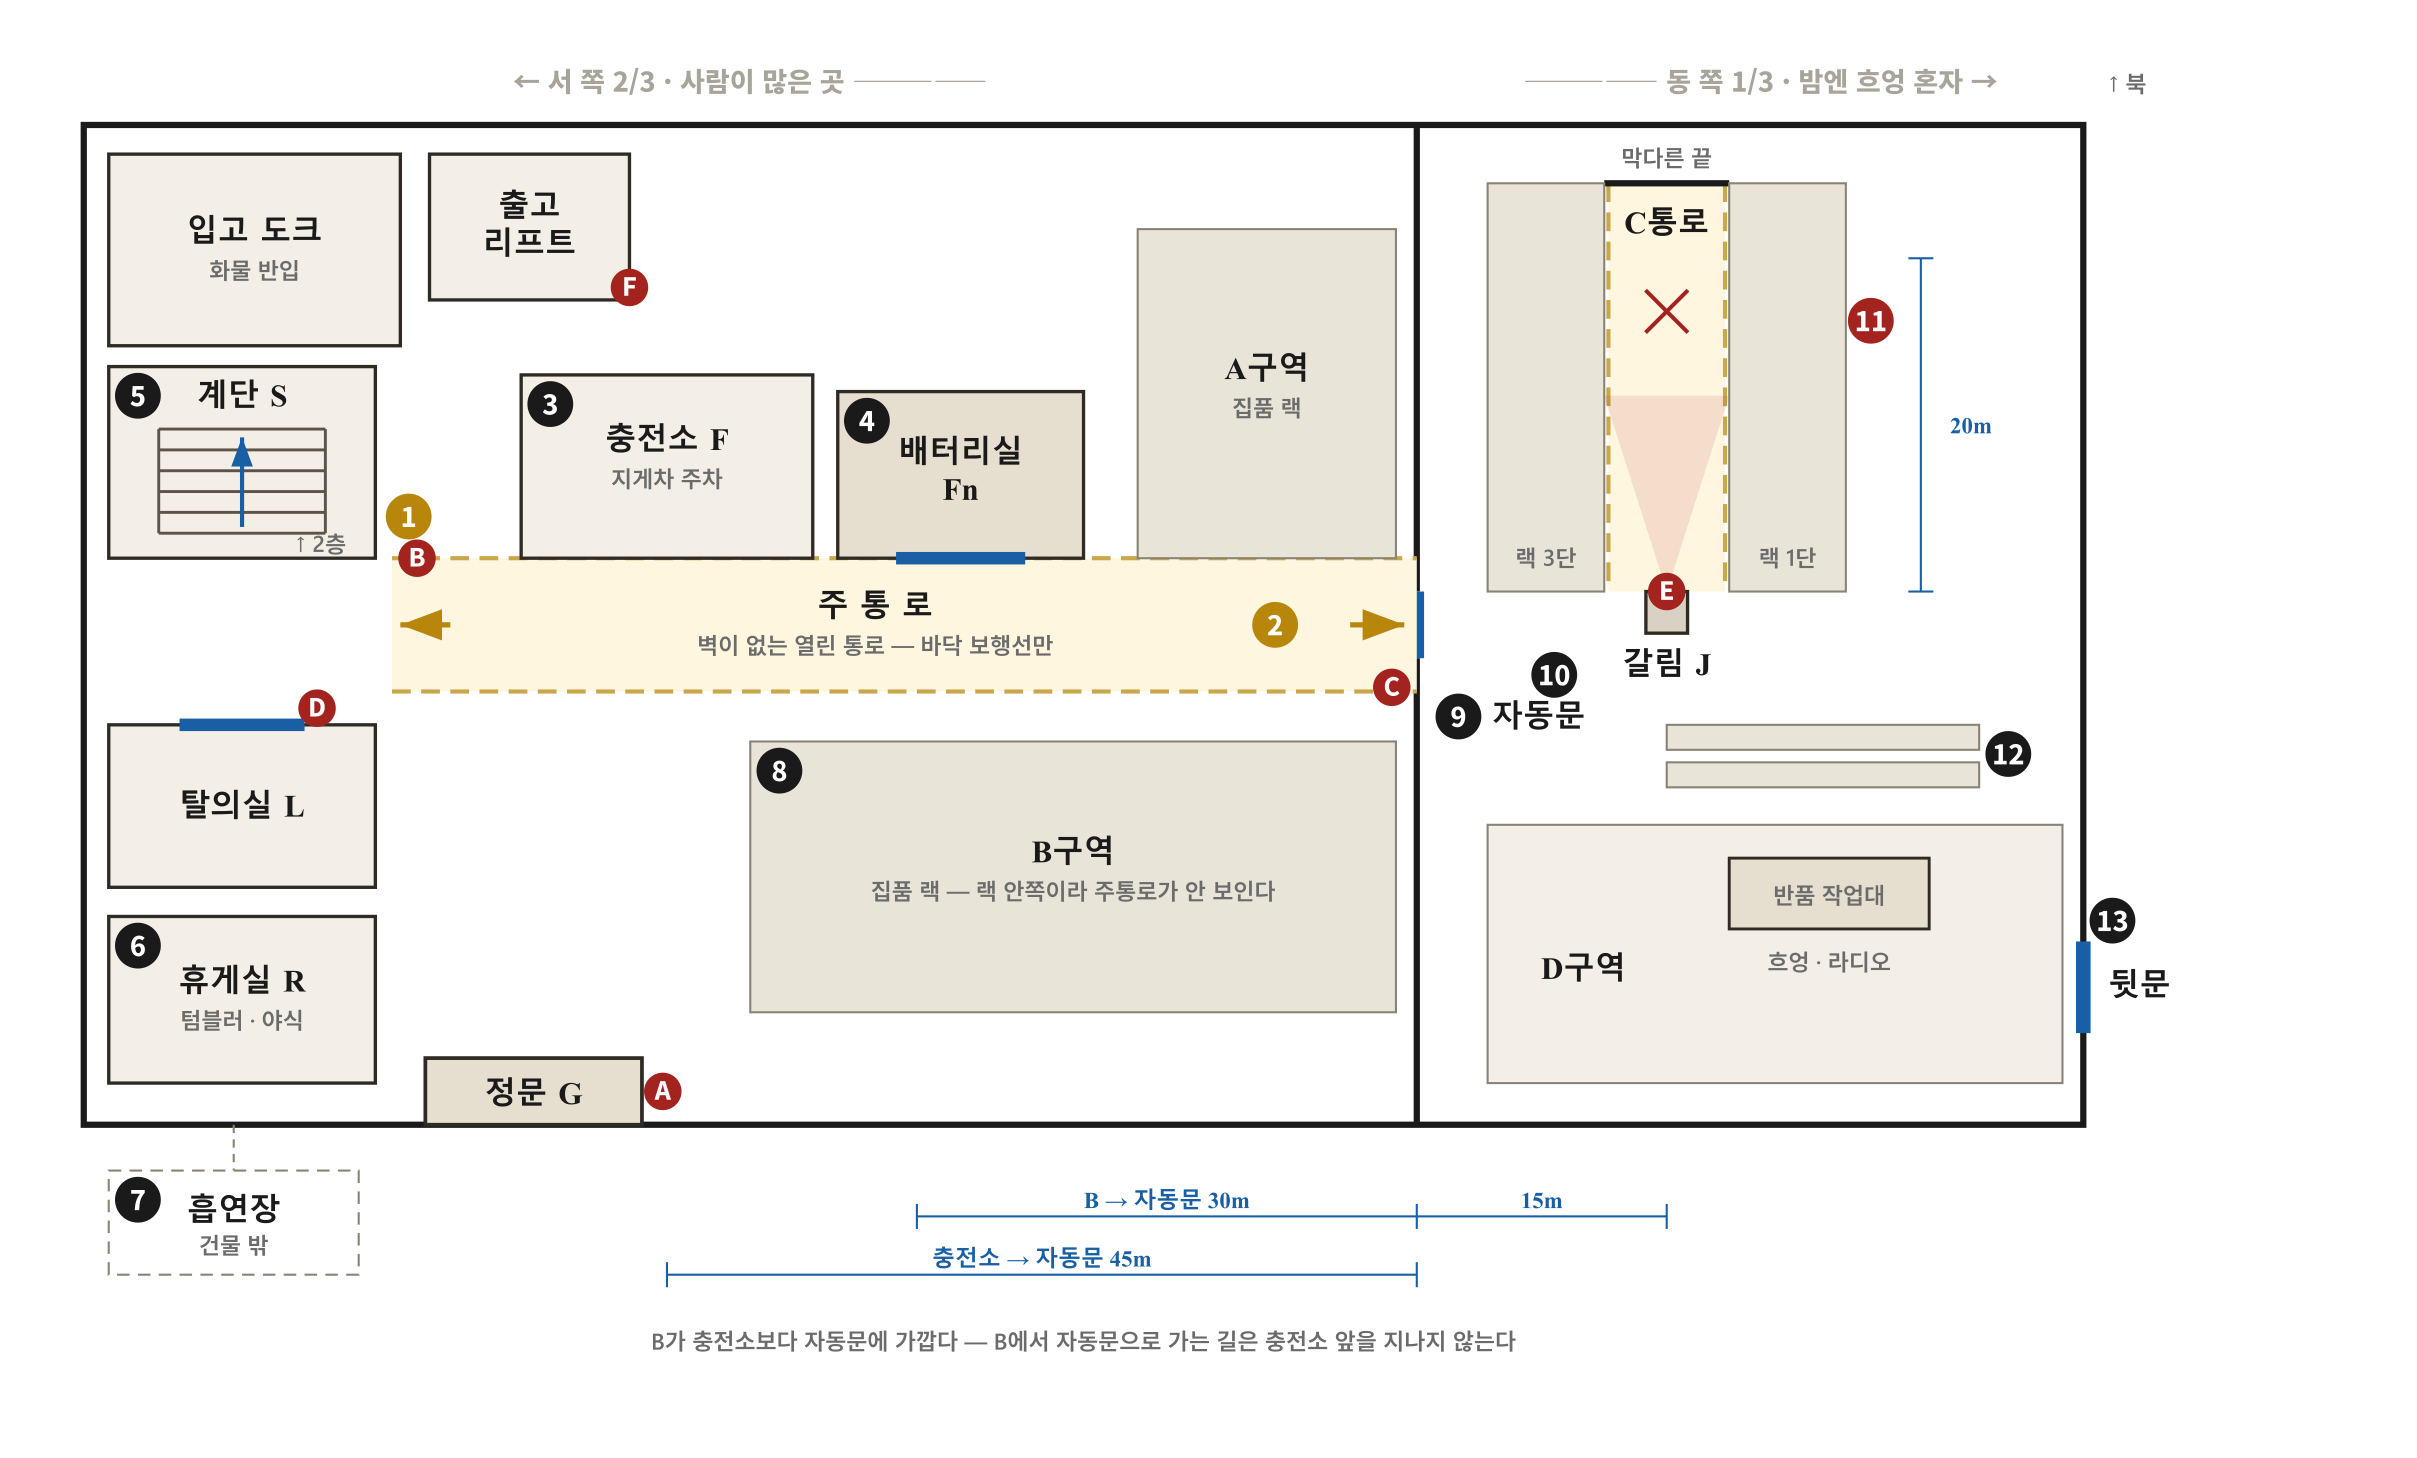
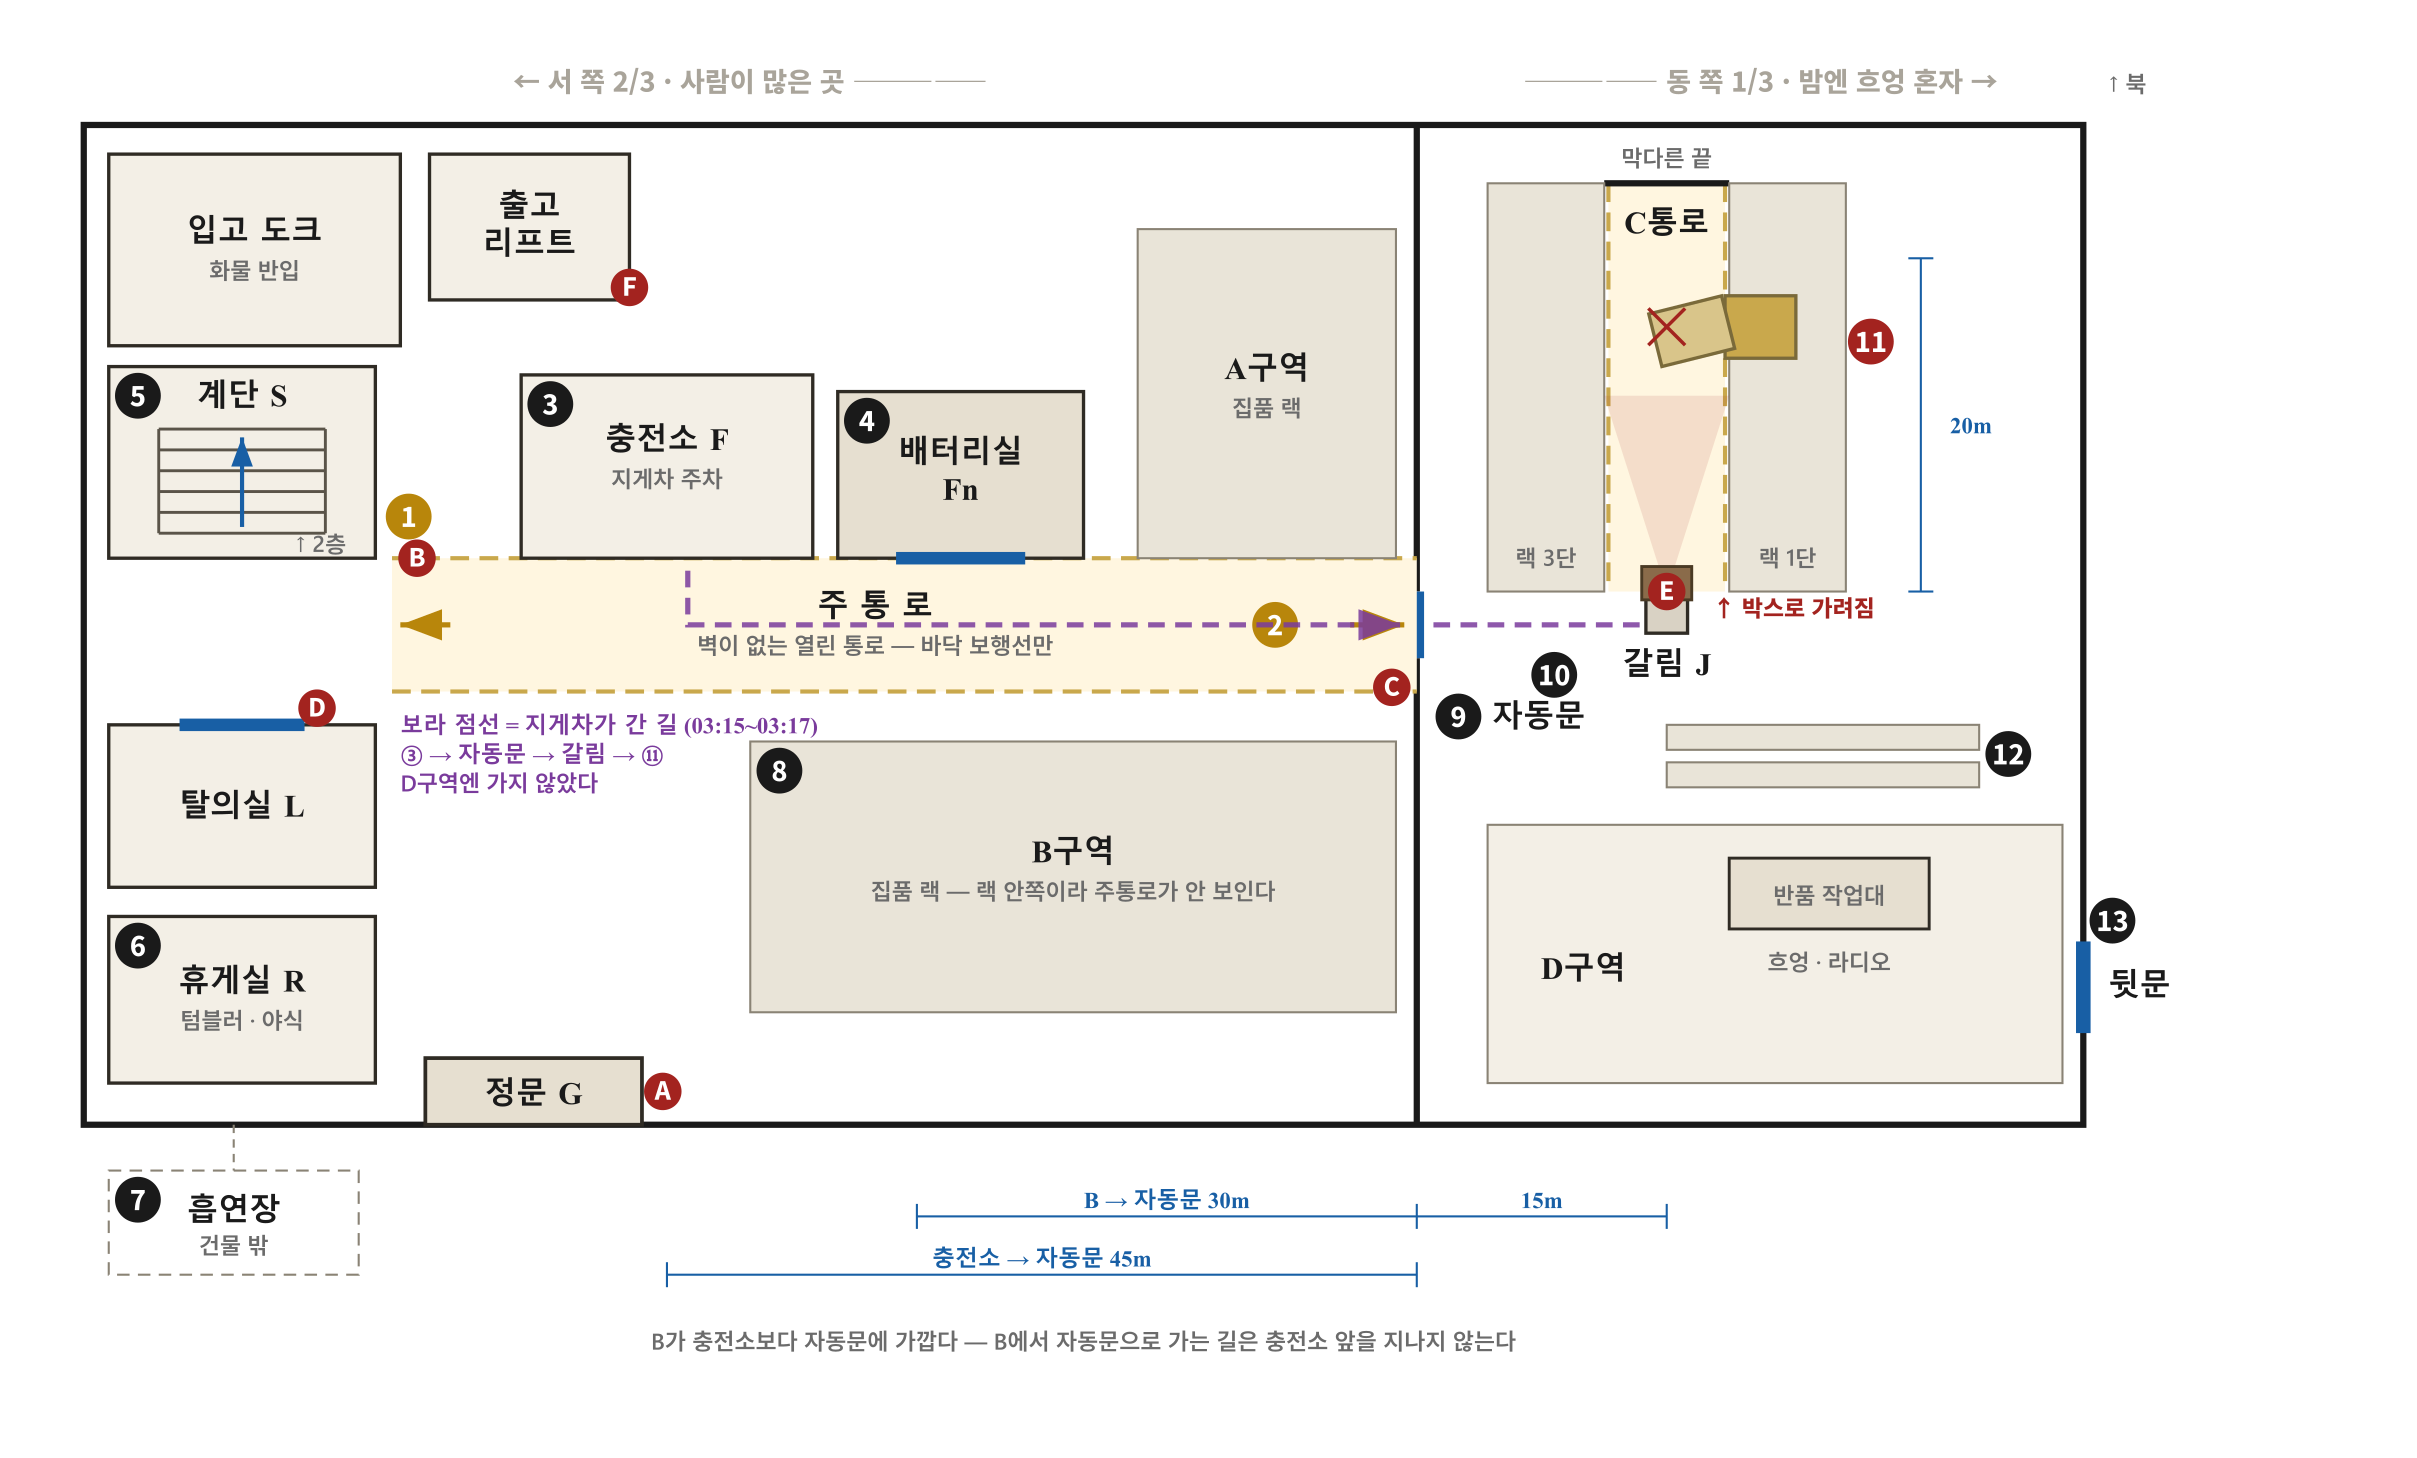
docs(야간조): CCTV를 「왜 달았는지」에서 다시 짰다 · 순찰과 수첩 두 곳 · 도면에 현장
M-2가 사건을 다 찍는데도 판이 어려운 이유를 설계로 만들었다.
카메라마다 설치 목적을 정하고 거기서 성능이 나오게 했다 —
M-2는 통행 계수용이라 문 위에서 수직으로 내려다봐 얼굴이 안 찍힌다.
그래서 「기사가 지게차로 왕복했다」가 가장 자연스러운 독법이 되고,
판은 먼저 임기석에게 간다.

- §15-4 전면 교체 · §15-5 신설(서장현은 찍힐 걸 알면서 왜 건넜나)
- 순찰 주기 재설계 + 02:40 조는 조장을 둘이 따로 목격
- 수첩을 두 번 적게(02:53 할 일 / 03:04 세고 나서)
- 도면에 넘어진 파렛트·현장·지게차 경로·가려진 카메라 표시

diff --git a/docs/야간조-자료/평면도.html b/docs/야간조-자료/평면도.html
@@ -46,6 +46,8 @@
       <path d="M0,0 L8,3 L0,6 z" fill="#b8860b"/></marker>
     <marker id="arb" markerWidth="8" markerHeight="8" refX="7" refY="2.6" orient="auto">
       <path d="M0,0 L7,2.6 L0,5.2 z" fill="#185FA5"/></marker>
+    <marker id="arp" markerWidth="9" markerHeight="9" refX="8" refY="3" orient="auto">
+      <path d="M0,0 L8,3 L0,6 z" fill="#7a3b9c"/></marker>
   </defs>
 
   <text x="360" y="44" class="zone" text-anchor="middle">← 서 쪽 2/3 · 사람이 많은 곳 —————</text>
@@ -134,6 +136,15 @@
   <text x="515" y="432" class="rtag" text-anchor="middle">집품 랙 — 랙 안쪽이라 주통로가 안 보인다</text>
   <circle cx="374" cy="370" r="11" fill="#1a1a1a"/><text x="374" y="375" class="num" text-anchor="middle">8</text>
 
+  <!-- ★ 지게차 경로 (03:15~03:17) : 충전소 → 자동문 → 갈림 → 현장 -->
+  <g stroke="#7a3b9c" stroke-width="2.5" fill="none" stroke-dasharray="8 5" opacity="0.85">
+    <path d="M330 274 L330 300 L672 300" marker-end="url(#arp)"/>
+    <path d="M688 300 L800 300 L800 182" marker-end="url(#arp)"/>
+  </g>
+  <text x="192" y="352" style="font:700 11px sans-serif;fill:#7a3b9c">보라 점선 = 지게차가 간 길 (03:15~03:17)</text>
+  <text x="192" y="366" style="font:700 11px sans-serif;fill:#7a3b9c">③ → 자동문 → 갈림 → ⑪</text>
+  <text x="192" y="380" style="font:600 11px sans-serif;fill:#7a3b9c">D구역엔 가지 않았다</text>
+
   <!-- 동쪽 : C통로 -->
   <rect x="772" y="88" width="56" height="196" fill="#fff6e0"/>
   <line x1="772" y1="88" x2="772" y2="284" stroke="#c9a84c" stroke-width="2" stroke-dasharray="9 5"/>
@@ -145,12 +156,18 @@
   <text x="742" y="272" class="rtag" text-anchor="middle">랙 3단</text>
   <text x="858" y="272" class="rtag" text-anchor="middle">랙 1단</text>
   <text x="800" y="80" class="rtag" text-anchor="middle">막다른 끝</text>
-  <text x="800" y="160" text-anchor="middle" style="font:800 30px sans-serif;fill:#a3231f">✕</text>
-  <circle cx="898" cy="154" r="11" fill="#a3231f"/><text x="898" y="159" class="num" text-anchor="middle">11</text>
+  <!-- 넘어진 파렛트 : 1단에서 통로 쪽으로 밀려 나옴 -->
+  <rect x="828" y="142" width="34" height="30" fill="#c9a84c" stroke="#7a6a3a" stroke-width="1.6"/>
+  <rect x="794" y="146" width="36" height="26" fill="#d9c58a" stroke="#7a6a3a" stroke-width="1.6" transform="rotate(-14 812 159)"/>
+  <text x="800" y="166" text-anchor="middle" style="font:800 26px sans-serif;fill:#a3231f">✕</text>
+  <circle cx="898" cy="164" r="11" fill="#a3231f"/><text x="898" y="169" class="num" text-anchor="middle">11</text>
+
 
   <path d="M800 284 L770 190 L830 190 Z" fill="#a3231f" opacity="0.12"/>
   <rect x="790" y="284" width="20" height="20" fill="#d9d2c4" stroke="#2f2b24" stroke-width="1.6"/>
+  <rect x="788" y="272" width="24" height="16" fill="#8a6b4a" stroke="#4a3a24" stroke-width="1.4"/>
   <circle cx="800" cy="284" r="9" fill="#a3231f"/><text x="800" y="288" class="cnum" text-anchor="middle">E</text>
+  <text x="822" y="296" style="font:800 11px sans-serif;fill:#a3231f">↑ 박스로 가려짐</text>
   <text x="800" y="324" class="rname" text-anchor="middle">갈림 J</text>
   <circle cx="746" cy="324" r="11" fill="#1a1a1a"/><text x="746" y="329" class="num" text-anchor="middle">10</text>
 
@@ -226,7 +243,9 @@
       <tr><td class="k"><span class="pill">10</span></td><td class="n">갈림 J</td>
           <td>자동문 동쪽 15m. 여기서 <b>북쪽이 C통로, 남쪽이 D구역</b>으로 갈린다.</td></tr>
       <tr><td class="k"><span class="pill r">11</span></td><td class="n">현장 ✕</td>
-          <td>갈림에서 20m 안. <b>C통로는 막다른 길</b>이라 출구가 갈림 하나뿐이다. 갈림에 서면 넘어진 파렛트까지만 보이고 <b>그 아래 사람은 다가가야 보인다</b>.</td></tr>
+          <td>갈림에서 <b>20m 안</b>. 노란 사각형이 <b>1단 랙에서 통로 쪽으로 밀려 넘어진 파렛트</b>, ✕가 그 아래 조장이다. <b>C통로는 막다른 길</b>이라 출구가 갈림 하나뿐이고, 갈림에 서면 <b>넘어진 파렛트까지만 보이고 그 아래 사람은 다가가야 보인다</b>.</td></tr>
+      <tr><td class="k" style="color:#7a3b9c;font-weight:800">━</td><td class="n" style="color:#7a3b9c">지게차 경로</td>
+          <td>보라 점선. <b>충전소 ③ → 주통로 → 자동문 → 갈림 → 현장 ⑪</b>. 03:15에 몰고 나가 03:17에 파렛트를 밀고, 시동을 켠 채 <b>C통로 입구</b>에 두고 걸어 나왔다. <b class="hl">D구역에는 간 적이 없다</b> — 사건은 갈림 기준 반대편(북쪽)에서 일어났다.</td></tr>
       <tr><td class="k"><span class="pill">12</span></td><td class="n">반품 랙</td>
           <td>두 열이 작업대와 갈림 사이를 가로막는다. <b class="hl">흐엉의 작업대에서는 갈림도 C통로도 보이지 않는다</b> — 소리만 온다.</td></tr>
       <tr><td class="k"><span class="pill">13</span></td><td class="n">뒷문</td>
@@ -246,7 +265,7 @@
       <tr><td class="k"><span class="pill r">D</span></td><td class="n">L-1 탈의실</td>
           <td>입구 출입만. 야식 시간엔 흐엉 하나뿐이다.</td></tr>
       <tr><td class="k"><span class="pill r">E</span></td><td class="n">C-3 갈림</td>
-          <td>C통로 전체 + D 입구. <b>00:30~04:11 박스로 가려져 있다</b> — 살인이 그 안에 들어 있다.</td></tr>
+          <td><b>이것이 오정숙이 가린 카메라다</b>(도면의 갈색 박스). 원래 D구역 반품 절도를 잡으려고 단 것이라 기둥 <b>북쪽 면</b>에 붙어 C통로를 향한다. 그녀는 자기 D구역만 가린 줄 알았지 <b class="hl">C통로가 같이 지워지는 줄 몰랐다</b>. <b>00:30~04:11 검은 화면</b> — 살인이 그 안에 들어 있다.</td></tr>
       <tr><td class="k"><span class="pill r">F</span></td><td class="n">출고 리프트</td>
           <td>지게차가 파렛트를 올려놓는 자리. 이상 없음.</td></tr>
     </table>
